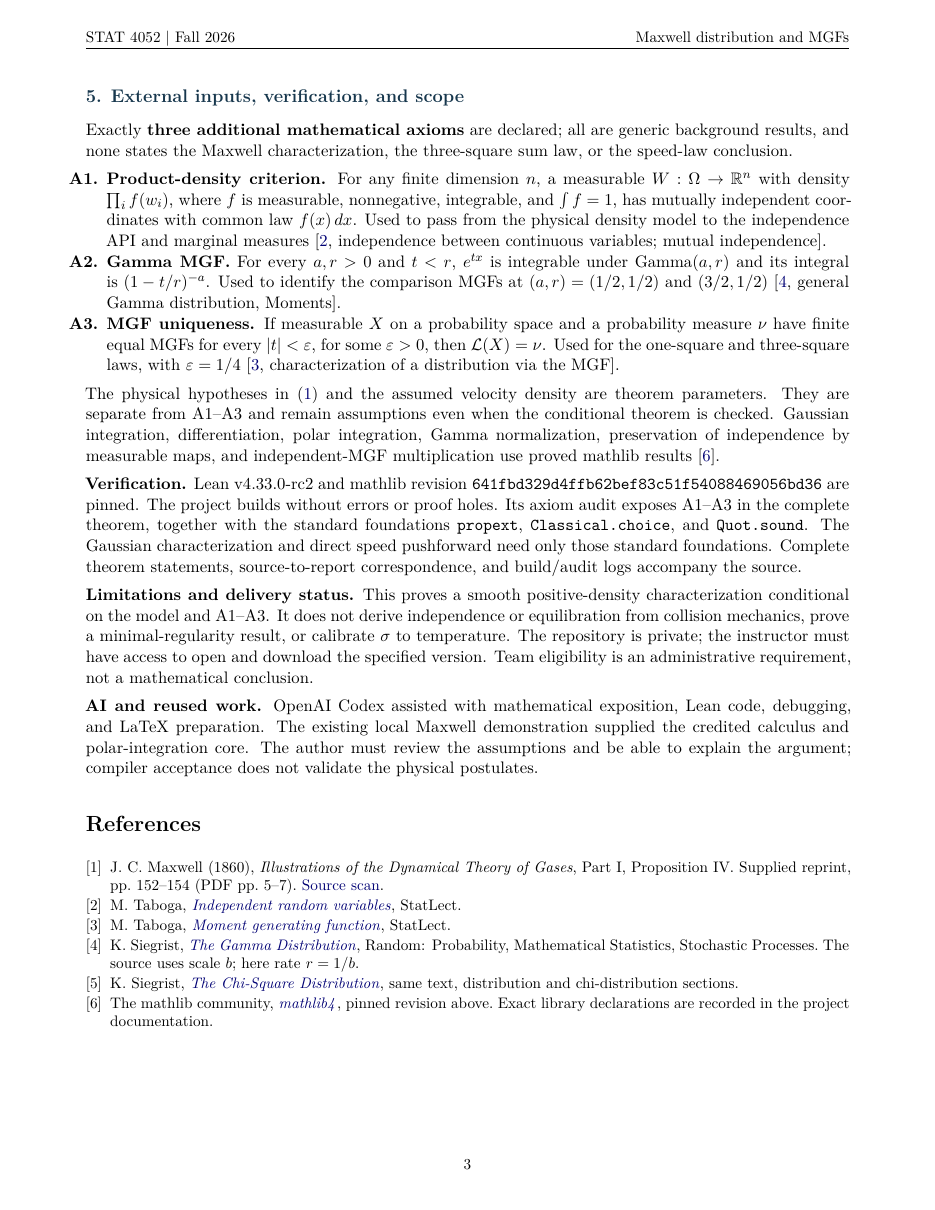
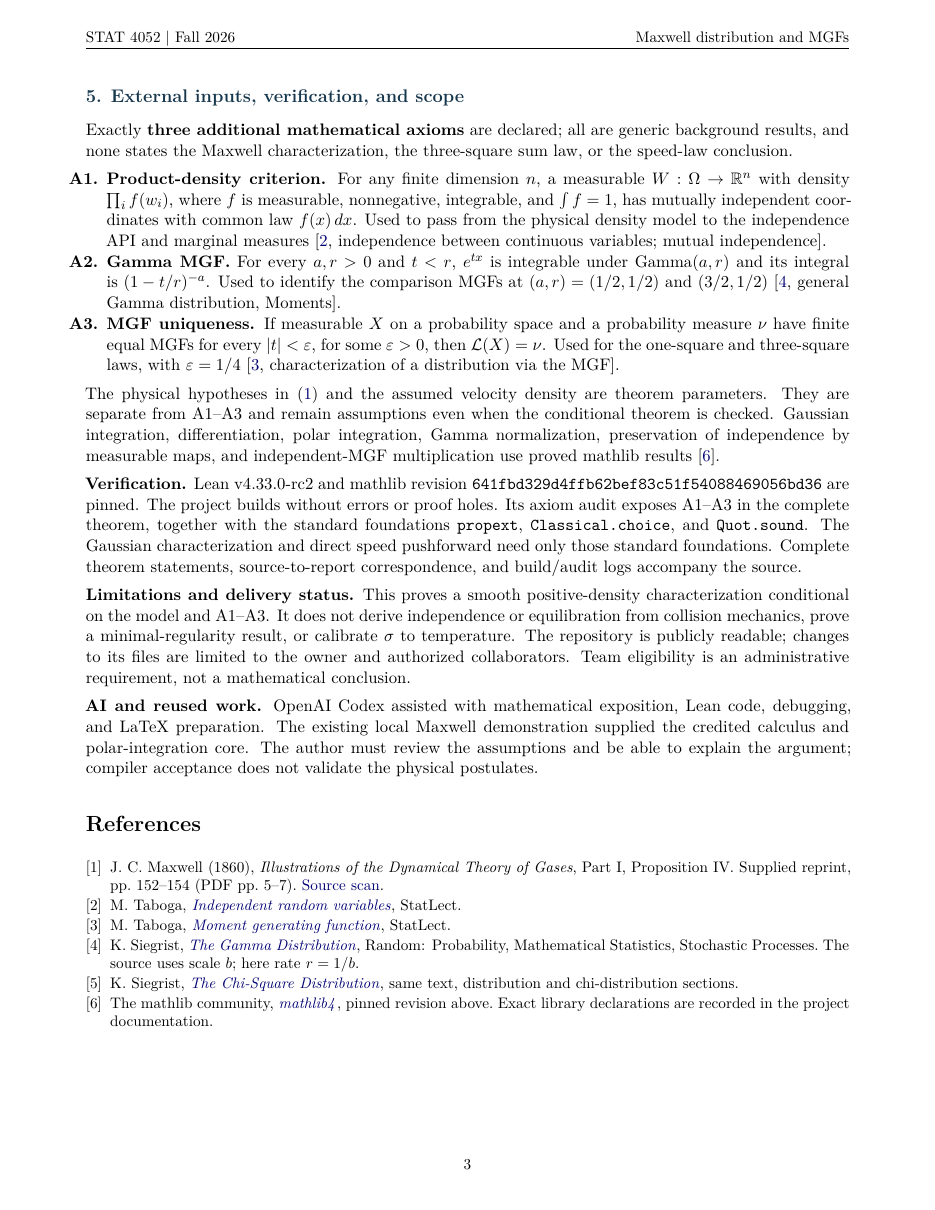
Publish publicly with restricted repository editing

Changed region(s): [[0.093, 0.5198, 0.8995, 0.581]]

diff --git a/report/latex/main.tex b/report/latex/main.tex
@@ -20,8 +20,8 @@
 {\LARGE\bfseries\color{navy} Maxwell's Speed Law via MGFs}\par
 {\large Hongru Zhao}\par
 STAT 4052 midterm project \hfill October 23, 2026\par
-\textbf{Repository:} \href{https://github.com/HongruZhao/MaxwellMGF}{github.com/HongruZhao/MaxwellMGF} (private).
-\textbf{Version:} \href{https://github.com/HongruZhao/MaxwellMGF/tree/v1.0.3}{Git tag v1.0.3}. The repository includes pinned dependencies, build instructions, and verification logs.
+\textbf{Repository:} \href{https://github.com/HongruZhao/MaxwellMGF}{github.com/HongruZhao/MaxwellMGF} (public).
+\textbf{Version:} \href{https://github.com/HongruZhao/MaxwellMGF/tree/v1.0.4}{Git tag v1.0.4}. The repository includes pinned dependencies, build instructions, and verification logs.
 
 \heading{1. Ideal-gas model and physical conclusion}
 Consider a classical ideal gas at thermal equilibrium, viewed in its \emph{bulk rest frame}. Let $V=(V_1,V_2,V_3)$ be the velocity of a randomly chosen molecule and $R=\|V\|$ its speed. Following Maxwell's Proposition IV, we assume two properties of its velocity density \cite{maxwell}:
@@ -115,7 +115,7 @@ The physical hypotheses in \eqref{model} and the assumed velocity density are th
 \texttt{641fbd329d4ffb62bef83c51f54088469056bd36} are pinned.
 The project builds without errors or proof holes. Its axiom audit exposes A1--A3 in the complete theorem, together with the standard foundations \texttt{propext}, \texttt{Classical.choice}, and \texttt{Quot.sound}. The Gaussian characterization and direct speed pushforward need only those standard foundations. Complete theorem statements, source-to-report correspondence, and build/audit logs accompany the source.
 
-\textbf{Limitations and delivery status.} This proves a smooth positive-density characterization conditional on the model and A1--A3. It does not derive independence or equilibration from collision mechanics, prove a minimal-regularity result, or calibrate $\sigma$ to temperature. The repository is private; the instructor must have access to open and download the specified version. Team eligibility is an administrative requirement, not a mathematical conclusion.
+\textbf{Limitations and delivery status.} This proves a smooth positive-density characterization conditional on the model and A1--A3. It does not derive independence or equilibration from collision mechanics, prove a minimal-regularity result, or calibrate $\sigma$ to temperature. The repository is publicly readable; changes to its files are limited to the owner and authorized collaborators. Team eligibility is an administrative requirement, not a mathematical conclusion.
 
 \textbf{AI and reused work.} OpenAI Codex assisted with mathematical exposition, Lean code, debugging, and LaTeX preparation. The existing local Maxwell demonstration supplied the credited calculus and polar-integration core. The author must review the assumptions and be able to explain the argument; compiler acceptance does not validate the physical postulates.
 

diff --git a/README.md b/README.md
@@ -56,5 +56,6 @@ mathlib cache; it did not rebuild every mathlib source file.
 OpenAI Codex assisted with the code and report. The author remains responsible
 for understanding the theorem and its assumptions.
 
-**Repository:** [HongruZhao/MaxwellMGF](https://github.com/HongruZhao/MaxwellMGF) (private).
-**Version:** `v1.0.3`. The instructor needs access to open or download it.
+**Repository:** [HongruZhao/MaxwellMGF](https://github.com/HongruZhao/MaxwellMGF) (public).
+**Version:** `v1.0.4`. Anyone can view or download the files; only the owner and
+authorized collaborators can change the repository.
